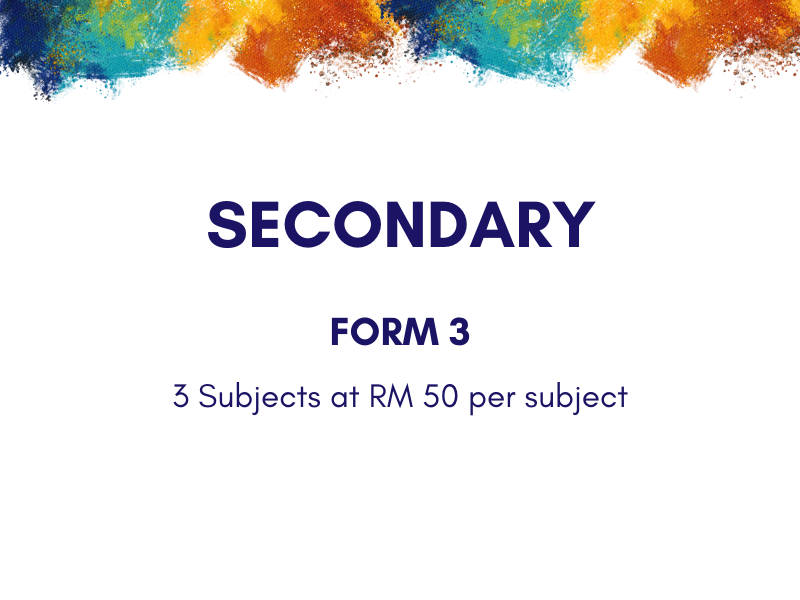
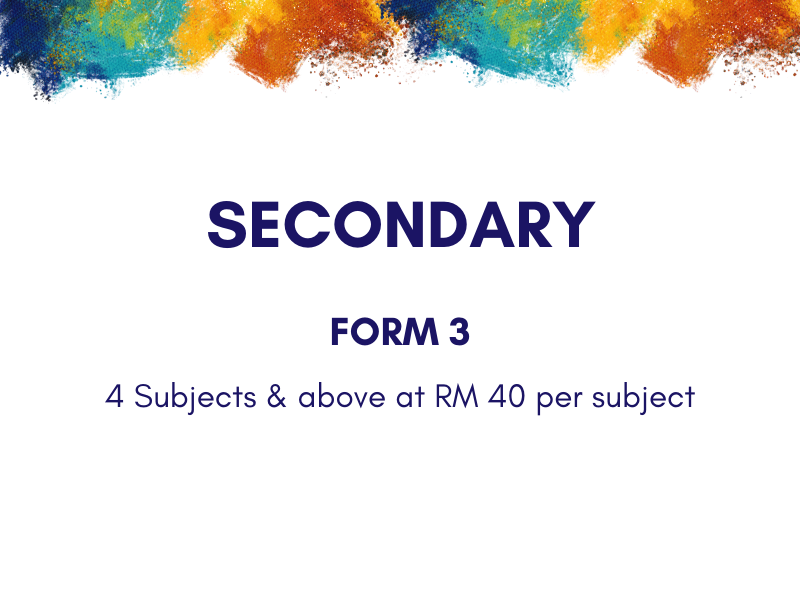
Update

Changed region(s): [[0.125, 0.63, 0.875, 0.69]]

diff --git a/resources/views/plan/show.blade.php b/resources/views/plan/show.blade.php
@@ -41,23 +41,24 @@ Plan
               <div class="row">
         <div class="col-md-12 order-md-1">
           <h4 class="mb-3">Checkout</h4>
-          @if(Session::has('error'))
-            <div class="alert alert-danger">
-                {{ Session::get('error') }}
-                @php
-                    Session::forget('error');
-                @endphp
-            </div>
-            @endif
+          @if ($errors->any())
+                  <div class="alert alert-danger">
+                      <ul>
+                          @foreach ($errors->all() as $error)
+                              <li>{{ $error }}</li>
+                          @endforeach
+                      </ul>
+                  </div>
+              @endif
           <form method="put" action="{{ url('payment/create') }}" name="checkout">
             <h3>Subject Selection</h3>
               <?php $subject = explode(',', $plan['subjects']); ?>
-              <div class="custom-control custom-checkbox mb-3">
-                @foreach($subject as $key => $value)
-                <input type="checkbox" class="custom-control-input" id="subject-{{ $key }}" name="subject[]" onclick="chkcontrol({{ $key-1 }})" value="{{ $value }}">
-                <label class="custom-control-label" for="subject-{{ $key }}" name="agree">{{ $value }}</label>
-                @endforeach
+              @foreach($subject as $key => $value)
+              <div class="form-check form-check-inline">
+                <input type="checkbox" class="form-check-input" id="subject-{{ $key }}" name="subjects[]" onclick="checkBoxLimit()" value="{{ $value }}">
+                <label class="form-check-label" for="subject-{{ $key }}" name="agree">{{ $value }}</label>
               </div>
+              @endforeach
             @csrf
               @auth
               <input type="hidden" name="user_id" value="{{ auth()->user()->id }}">
@@ -80,16 +81,16 @@ Plan
             @endguest
 
             @php
-            $amount = ($plan['price']*2) + $plan['signup_fee'] + $plan['exam_fee'];
+            $extra = $plan['signup_fee'] + $plan['exam_fee'];
             @endphp
-            <h4>Total price: RM {{ number_format($amount,2) }}</h4>
             <div class="custom-control custom-checkbox">
               <input type="checkbox" class="custom-control-input" id="agree">
               <label class="custom-control-label" for="agree" name="agree">I agree to the <a href="{{ url('terms-and-conditons') }}" target="_blank" required>{{ env('APP_NAME') }}'s terms and conditions</a></label>
             </div>
             <span class="text-danger">{{ $errors->first('agree') }}</span>
             <input type="hidden" name="plan_id" value="{{ $plan['id'] }}">
-            <input type="hidden" name="amount" value="{{ $amount }}">
+            <input type="hidden" name="extra_amount" value="{{ $extra }}">
+            <input type="hidden" name="price" value="{{ $plan['price'] }}">
         </div>
       </div>
       <hr class="mb-4">
@@ -103,11 +104,11 @@ Plan
                 <h5>Disclaimer</h5>
                 <ul>
                   <li>4 lesson per month for every subject</li>
-                  <li>We reserve the rights to refuce entry into class for late payments</li>
+                  <li>We reserve the rights to refuse entry into class for late payments</li>
                   <li>Fees must be paid before the second class of the month</li>
                 </ul>
               </div>
-              <p><img height="24px" src="https://cdn02.billplz.com/assets/v1/Billplz_Blue-3153732736cf969cb5d2e23e3e8fa4b3e2292b87d4b19b581b27ee93940b0bc2.svg"> is the payment gateway and subject to agreed <a href="https://www.billplz.com/privacy" target="_blank">terms and conditions</a></p>
+              <p><img height="24px" src="https://cdn02.billplz.com/assets/v1/Billplz_Blue-3153732736cf969cb5d2e23e3e8fa4b3e2292b87d4b19b581b27ee93940b0bc2.svg"> is the payment gateway provider. By subscribing to this service, you are subject to bind with their <a href="https://www.billplz.com/privacy" target="_blank">terms and conditions</a></p>
             </div>
           </div>
 </form>
@@ -127,19 +128,25 @@ Plan
 
 @push('js')
 <script type="text/javascript">
-  function chkcontrol(j) {
-    var total = 0;
-    var max = {{ $plan['maximum_subject'] }};
-    for(var i=0; i < document.checkout.subject.length; i++){
-      if(document.checkout.subject[i].checked){
-        total = total+1;
+  function checkBoxLimit() {
+  var checkBoxGroup = document.forms['checkout']['subjects[]'];     
+  var max_sub = {{ $plan['maximum_subject'] }};
+  var min_sub = {{ $plan['minimum_subject'] }};
+  for (var i = 0; i < checkBoxGroup.length; i++) {
+    checkBoxGroup[i].onclick = function() {
+      var checkedcount = 0;
+      for (var i = 0; i < checkBoxGroup.length; i++) {
+        checkedcount += (checkBoxGroup[i].checked) ? 1 : 0;
       }
-      if(total > max){
-        alert("Please select only " + max + " subject") 
-        document.checkout.subject[j].checked = false ;
-      return false;
+      if (checkedcount < min_sub) {
+        alert("You must select minimum of " + min_sub + " subject.");
+      }
+      if (checkedcount > max_sub) {
+        alert("You can select maximum of " + max_sub + " subject.");
+        this.checked = false;
       }
     }
   }
+}
 </script>
 @endpush

diff --git a/app/Http/Controllers/PaymentController.php b/app/Http/Controllers/PaymentController.php
@@ -25,8 +25,9 @@ class PaymentController extends Controller
             $request->validate([
                 'user_id' => 'required',
                 'plan_id' => 'required',
-                'subject' => 'required',
-                'amount' => 'required'
+                'subjects' => 'required',
+                'price' => 'required',
+                'extra_amount' => 'required'
             ]);
 
             $user = User::find($request->input('user_id'));
@@ -41,8 +42,9 @@ class PaymentController extends Controller
                 'name' => 'required',
                 'email' => 'required|unique:users',
                 'plan_id' => 'required',
-                'subject' => 'required',
-                'amount' => 'required'
+                'subjects' => 'required',
+                'extra_amount' => 'required',
+                'price' => 'required'
             ]);
 
             $name = $request->input('name');
@@ -64,8 +66,11 @@ class PaymentController extends Controller
             $user_id = $user['id'];
         }
 
-        $amount = $request->input('amount');
-        $subject = implode(', ', $request->input('subject'));
+        $extra_amount = $request->input('extra_amount');
+        $price = $request->input('price');
+        $subject = implode(', ', $request->input('subjects'));
+        $total_subject = count($request->input('subjects'));
+        $total_amount = ($price * $total_subject) + $extra_amount;
 
         $input = $request->all();
 
@@ -77,7 +82,7 @@ class PaymentController extends Controller
             'description' => 'Subscription for '.$plan['name'].' with subject '.$subject,
             'email' => $email,
             'name' => $name,
-            'amount' => $amount*100, // in cent
+            'amount' => $total_amount*100, // in cent
             'callback_url' => env('APP_URL').'/payment/callback',
             'redirect_url' => env('APP_URL').'/payment/response'
         ]);
